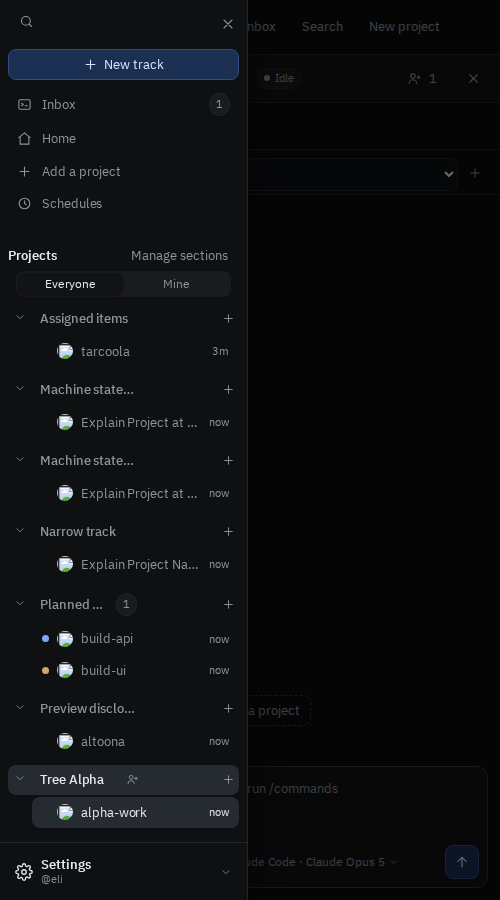
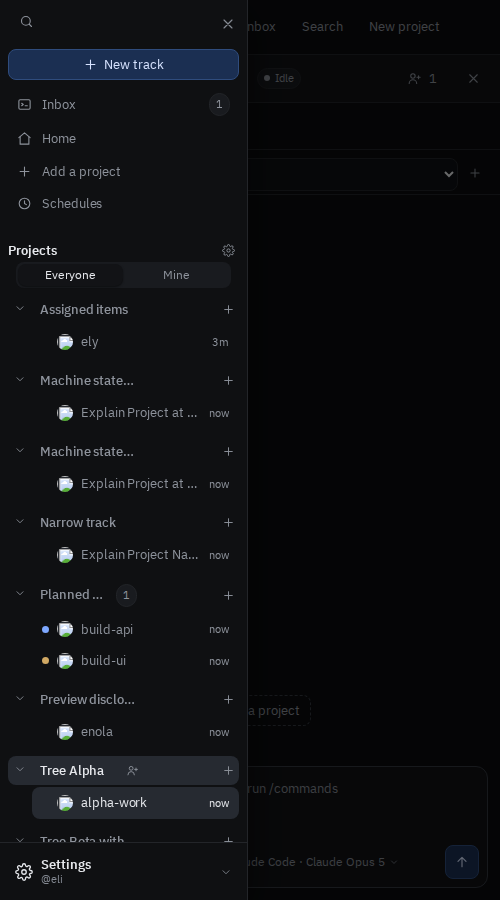
RAV-44, RAV-45: Sidebar chevrons follow state; clear section hierarchy (#372)
RAV-44: project rows drew their chevron with an inline "open" rotation,
which beat the stylesheet's collapsed rule, so a collapsed project still
showed ⌄. Sections and projects now share `disclosure_chevron/1`, a chevron
that CSS turns from its button's own aria-expanded (› collapsed, ⌄
expanded), whether the server or the ProjectTree hook set it.

RAV-45: section headers are a small, muted, uppercase label; projects in a
labelled group step in one --tree-step under it and tracks one more under
their project. An empty section shows a muted "No projects" line, kept
rather than hidden so it remains a place to drag a project to. "Manage
sections" is a settings icon button on the Projects header, named "Manage
sections", with the tooltip "Organize projects into sections".

diff --git a/browser/sidebar-alignment.spec.js b/browser/sidebar-alignment.spec.js
@@ -48,3 +48,97 @@ test('sidebar avatars line up whether or not a row shows a status dot', async ({
   }
   expect((await new AxeBuilder({ page }).withTags(['wcag2a', 'wcag2aa']).analyze()).violations).toEqual([]);
 });
+
+// RAV-44/45: one indent step per level, a chevron that follows each
+// disclosure's state (mouse and keyboard), and a quiet empty section.
+test('the sidebar tree steps in per level and its chevrons follow their state', async ({ page }) => {
+  test.setTimeout(120_000);
+  await page.setViewportSize({ width: 1440, height: 900 });
+  // Its own person, so the sections made here reach no other spec's rail.
+  await signIn(page, 'sidebartree', '/home');
+  await connectClaude(page);
+  await page.getByRole('button', { name: /^New project/ }).click();
+  const newProject = page.getByRole('dialog', { name: 'New project' });
+  await newProject.getByLabel('Project name', { exact: true }).fill('Tree filed');
+  await expect(newProject.locator('#project-repositories option')).not.toHaveCount(0);
+  await newProject.getByLabel('Repository', { exact: true }).fill('mockuser/atlas-api');
+  await newProject.getByRole('button', { name: 'Create project', exact: true }).click();
+  await expect(newProject).not.toBeVisible();
+  await page.locator('#yard .workspace-project.current .project-add').click();
+  const newTrack = page.getByRole('dialog', { name: 'New track', exact: true });
+  await newTrack.getByRole('button', { name: 'Advanced', exact: true }).click();
+  await newTrack.getByLabel('Branch name').fill('tree-work');
+  await newTrack.getByRole('button', { name: 'Create track', exact: true }).click();
+  await expect(newTrack).not.toBeVisible();
+
+  const manage = page.getByRole('button', { name: 'Manage sections', exact: true });
+  await expect(manage).toHaveAttribute('title', 'Organize projects into sections');
+  const sections = page.getByRole('dialog', { name: 'Project sections', exact: true });
+  await manage.click();
+  for (const [index, name] of ['Filed', 'Empty shelf'].entries()) {
+    await sections.getByLabel('New section', { exact: true }).fill(name);
+    await sections.getByRole('button', { name: 'Create section', exact: true }).click();
+    await expect(sections.getByLabel('Section name', { exact: true })).toHaveCount(index + 1);
+  }
+  await sections.getByRole('combobox', { name: 'Section for Tree filed', exact: true }).selectOption({ label: 'Filed' });
+  await page.keyboard.press('Escape');
+
+  const group = name => page.locator('.project-section').filter({ has: page.locator('.section-toggle', { hasText: name }) });
+  const filed = group('Filed'), shelf = group('Empty shelf');
+  const project = filed.locator('.workspace-project');
+  const projectToggle = project.locator('.project-collapse');
+  await expect(project.locator('.workspace-project-name')).toContainText('Tree filed');
+  await expect(shelf.locator('.section-empty')).toHaveText('No projects');
+
+  const x = locator => locator.evaluate(el => el.getBoundingClientRect().x);
+  const turned = locator => locator.evaluate(el => getComputedStyle(el).transform !== 'none');
+  for (const width of [1440, 390]) {
+    await page.setViewportSize({ width, height: 900 });
+    if (width < 760) await page.getByRole('button', { name: 'Menu', exact: true }).click();
+    // Section label, then project, then track: each a step further in.
+    const section = await x(filed.locator('.section-toggle svg'));
+    const projectX = await x(projectToggle.locator('svg'));
+    const track = await x(project.locator('.track-status').first());
+    expect(section).toBeLessThan(projectX);
+    expect(projectX).toBeLessThan(track);
+    // The empty line's words start where its projects' names would.
+    expect(await shelf.locator('.section-empty').evaluate(el => el.getBoundingClientRect().x + parseFloat(getComputedStyle(el).paddingLeft))).toBeGreaterThan(projectX);
+    // Every row stays on one line, and nothing scrolls sideways.
+    for (const row of [filed.locator('.section-toggle'), project.locator('.workspace-project-row'), project.locator('.track-tab').first()]) {
+      expect((await row.boundingBox()).height).toBeLessThan(36);
+    }
+    expect(await page.evaluate(() => document.documentElement.scrollWidth <= innerWidth)).toBe(true);
+
+    // A project's chevron: ⌄ open, › closed, by mouse and by keyboard.
+    await expect(projectToggle).toHaveAttribute('aria-expanded', 'true');
+    await expect.poll(() => turned(projectToggle.locator('svg'))).toBe(true);
+    await projectToggle.click();
+    await expect(projectToggle).toHaveAttribute('aria-expanded', 'false');
+    await expect(project.locator('.track-tab')).toBeHidden();
+    await expect.poll(() => turned(projectToggle.locator('svg'))).toBe(false);
+    await projectToggle.focus();
+    await page.keyboard.press('Enter');
+    await expect(projectToggle).toHaveAttribute('aria-expanded', 'true');
+    await expect(project.locator('.track-tab')).toBeVisible();
+    await expect.poll(() => turned(projectToggle.locator('svg'))).toBe(true);
+    await page.keyboard.press('Space');
+    await expect(projectToggle).toHaveAttribute('aria-expanded', 'false');
+    await page.keyboard.press('Enter');
+    await expect(projectToggle).toHaveAttribute('aria-expanded', 'true');
+
+    // A section's chevron the same way; collapsing it hides only its own.
+    const sectionToggle = filed.locator('.section-toggle');
+    await sectionToggle.click();
+    await expect(sectionToggle).toHaveAttribute('aria-expanded', 'false');
+    await expect(project).toBeHidden();
+    await expect(shelf.locator('.section-empty')).toBeVisible();
+    await expect.poll(() => turned(sectionToggle.locator('svg'))).toBe(false);
+    await sectionToggle.focus();
+    await page.keyboard.press('Enter');
+    await expect(sectionToggle).toHaveAttribute('aria-expanded', 'true');
+    await expect(project).toBeVisible();
+    await expect.poll(() => turned(sectionToggle.locator('svg'))).toBe(true);
+    expect((await new AxeBuilder({ page }).withTags(['wcag2a', 'wcag2aa']).analyze()).violations).toEqual([]);
+    if (width < 760) await page.getByRole('button', { name: 'Close menu', exact: true }).click();
+  }
+});

diff --git a/assets/css/app.css b/assets/css/app.css
@@ -18,6 +18,7 @@
   --mono: "IBM Plex Mono", ui-monospace, SFMono-Regular, "SF Mono", Menlo, Consolas, monospace;
   --sans: "IBM Plex Sans", ui-sans-serif, -apple-system, BlinkMacSystemFont, "Segoe UI", sans-serif;
   --rail: 248px;
+  --tree-step: 12px;
   --radius: 8px;
   --radius-lg: 10px;
   /* Conversation and inspector tabs. Palettes inherit the ink; Daylight replaces it. */
@@ -634,11 +635,11 @@ html[data-yard="closed"] .yard .workspace-gear { display: none; }
 .workspace-project-row:hover .workspace-project-name, .workspace-project-name.selected { color: var(--ink); }
 .workspace-project-name:hover, .account-item:hover { text-decoration: none; }
 .project-actions { flex: none; display: flex; align-items: center; gap: 1px; padding-right: 3px; }
-.project-action {
+.project-action, .section-action {
   flex: none; width: 22px; height: 22px; padding: 0; display: grid; place-items: center;
   color: var(--dim); background: transparent; border: none; border-radius: var(--radius); text-decoration: none;
 }
-.project-action:hover:not(:disabled), .project-action:focus-visible { color: var(--ink); background: var(--surface); border-color: transparent; }
+.project-action:hover:not(:disabled), .project-action:focus-visible, .section-action:hover, .section-action:focus-visible { color: var(--ink); background: var(--surface); border-color: transparent; }
 .project-action.on { color: var(--ink); background: var(--surface); }
 @media (hover: hover) {
   .workspace-project .project-action[title="Project settings"],
@@ -1887,13 +1888,16 @@ body:has(.phx-error) #request-progress { display: none; }
 .section-toggle, .section-name {
   display: flex; align-items: center; gap: 6px; width: 100%; min-width: 0; padding: 4px 6px;
   color: var(--dimmer); background: transparent; border: none; text-align: left;
-  font-size: 11px; font-weight: 600; letter-spacing: 0.02em;
+  font-size: 10.5px; font-weight: 600; letter-spacing: 0.06em; text-transform: uppercase;
 }
 .section-name { padding-left: 24px; }
 .section-toggle:hover:not(:disabled) { color: var(--dim); background: transparent; border-color: transparent; }
 .section-toggle .truncate { flex: 1; }
 .section-toggle .dim { font-weight: 400; font-variant-numeric: tabular-nums; }
-.section-empty { margin: 0; padding: 4px 6px 6px 24px; font-size: 12px; }
+/* One indent step per level: section label, then its projects, then their
+   tracks (which `.project-tree-tracks` steps in again from the project). */
+.project-section.labelled > div > .workspace-project { padding-left: var(--tree-step); }
+.section-empty { margin: 0; padding: 2px 6px 4px calc(var(--tree-step) + 30px); font-size: 12px; }
 .project-section-picker { display: flex; align-items: center; gap: 8px; padding: 4px 0; }
 .project-section-picker label { flex: 1; min-width: 0; }
 .project-section-picker select { flex: 1; min-width: 0; padding: 4px; }
@@ -2078,7 +2082,9 @@ body:has(.phx-error) #request-progress { display: none; }
 .closed-track .track-creator { opacity: 0.7; }
 .closed-track button { flex: none; padding: 1px 6px; font-size: 12px; }
 .project-collapse { flex: 0 0 24px; padding: 4px; }
-[data-collapse][aria-expanded="false"] svg { transform: rotate(-90deg); }
+/* A disclosure points right when collapsed and down when expanded; the
+   button's own `aria-expanded` turns it, whoever last set it. */
+[aria-expanded="true"] > .disclosure-chevron { transform: rotate(90deg); }
 .workspace-project-row .workspace-project-name { min-width: 0; }
 #search-dialog [data-jump-result] { display: flex; gap: 8px; align-items: center; min-width: 0; overflow-wrap: anywhere; }
 #search-dialog [data-jump-result]:focus-visible { outline: 2px solid var(--accent); outline-offset: 2px; }

diff --git a/mock/server.ts b/mock/server.ts
@@ -1343,6 +1343,7 @@ const PEOPLE = [
     { id: 9032, login: "gitstatus", name: "Git Status", avatar_url: `${BASE}/ghweb/avatar.svg` },
     { id: 9033, login: "mentioner", name: "Mention Author", avatar_url: `${BASE}/ghweb/avatar.svg` },
     { id: 9034, login: "escaper", name: "Escape Presser", avatar_url: `${BASE}/ghweb/avatar.svg` },
+    { id: 9035, login: "sidebartree", name: "Sidebar Tree", avatar_url: `${BASE}/ghweb/avatar.svg` },
   ] : []),
   { id: 9001, login: "dana", name: "Dana Okonkwo", avatar_url: `${BASE}/ghweb/avatar.svg?dana` },
   { id: 9002, login: "eli", name: "Eli Fischer", avatar_url: `${BASE}/ghweb/avatar.svg?eli` },
